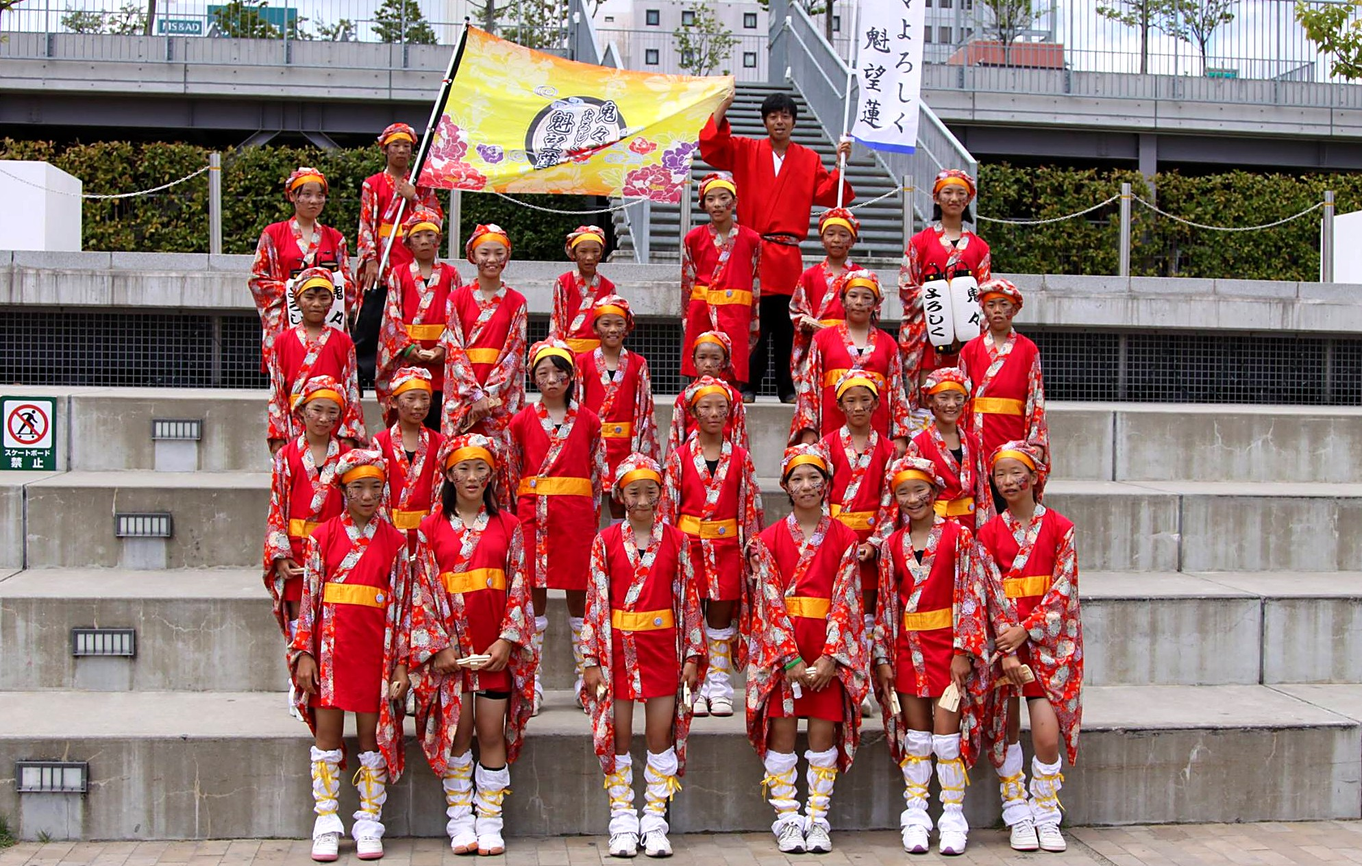
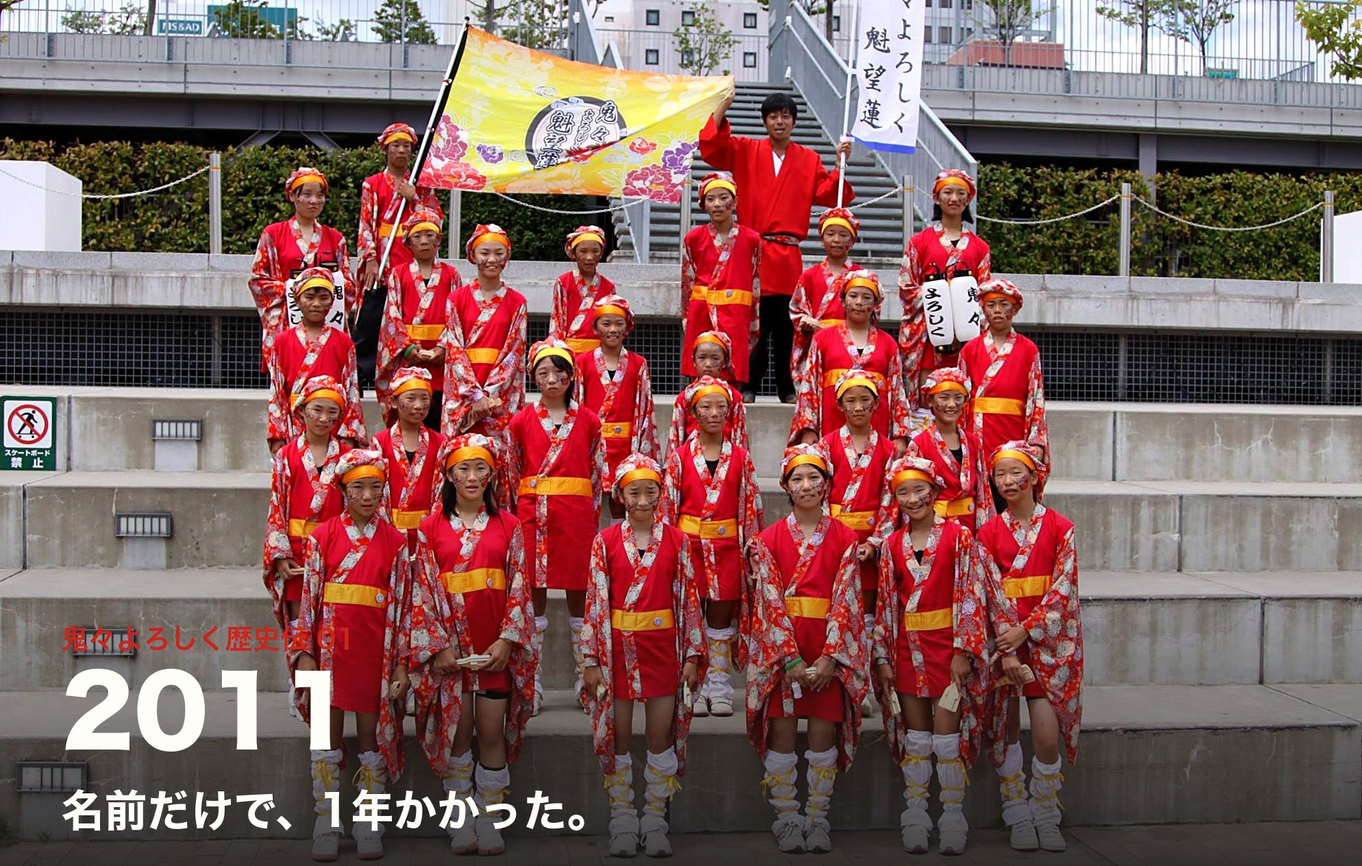
ブログアイキャッチに年号とキャッチコピーを焼き込む統一フォーマットを導入

diff --git a/DESIGN.md b/DESIGN.md
@@ -26,7 +26,7 @@
 - 参考サイトの「大きな余白」「大胆な色面」「写真の連続」「短い強い見出し」を抽出し、固有のロゴ・コピー・形状は模倣しない。
 - 角丸カードを並べるテンプレート表現を避け、直線、斜めの切り替え、円形の朱印モチーフで祭りの熱量を出す。
 - 子どもの写真を装飾ではなく、歴史と本気を証明する主役として大きく扱う。
-- SNS投稿用の文字入り告知画像はサイトのメイン写真に流用せず、実写写真とサイト上の文字を明確に分ける。
+- SNS投稿用の文字入り告知画像はサイトのメイン写真に流用せず、実写写真とサイト上の文字を明確に分ける。ただしブログ記事のアイキャッチのみ例外とし、写真下部に墨色のグラデーションを重ね、「歴史伝◯◯」ラベル（朱）＋年号（白・大）＋一言コピー（白）を焼き込む統一フォーマットを使う（2026-08-30〜）。トップページや告知画像には適用しない。
 - ファーストビューは演舞写真4枚のスライドショー。文字専用の墨色面と写真面を完全に分け、写真の上にコピーや操作文字を重ねない。
 - PCとスマホで情報の順序を変えず、スマホでは1カラムと大きいタップ領域を徹底する。
 
